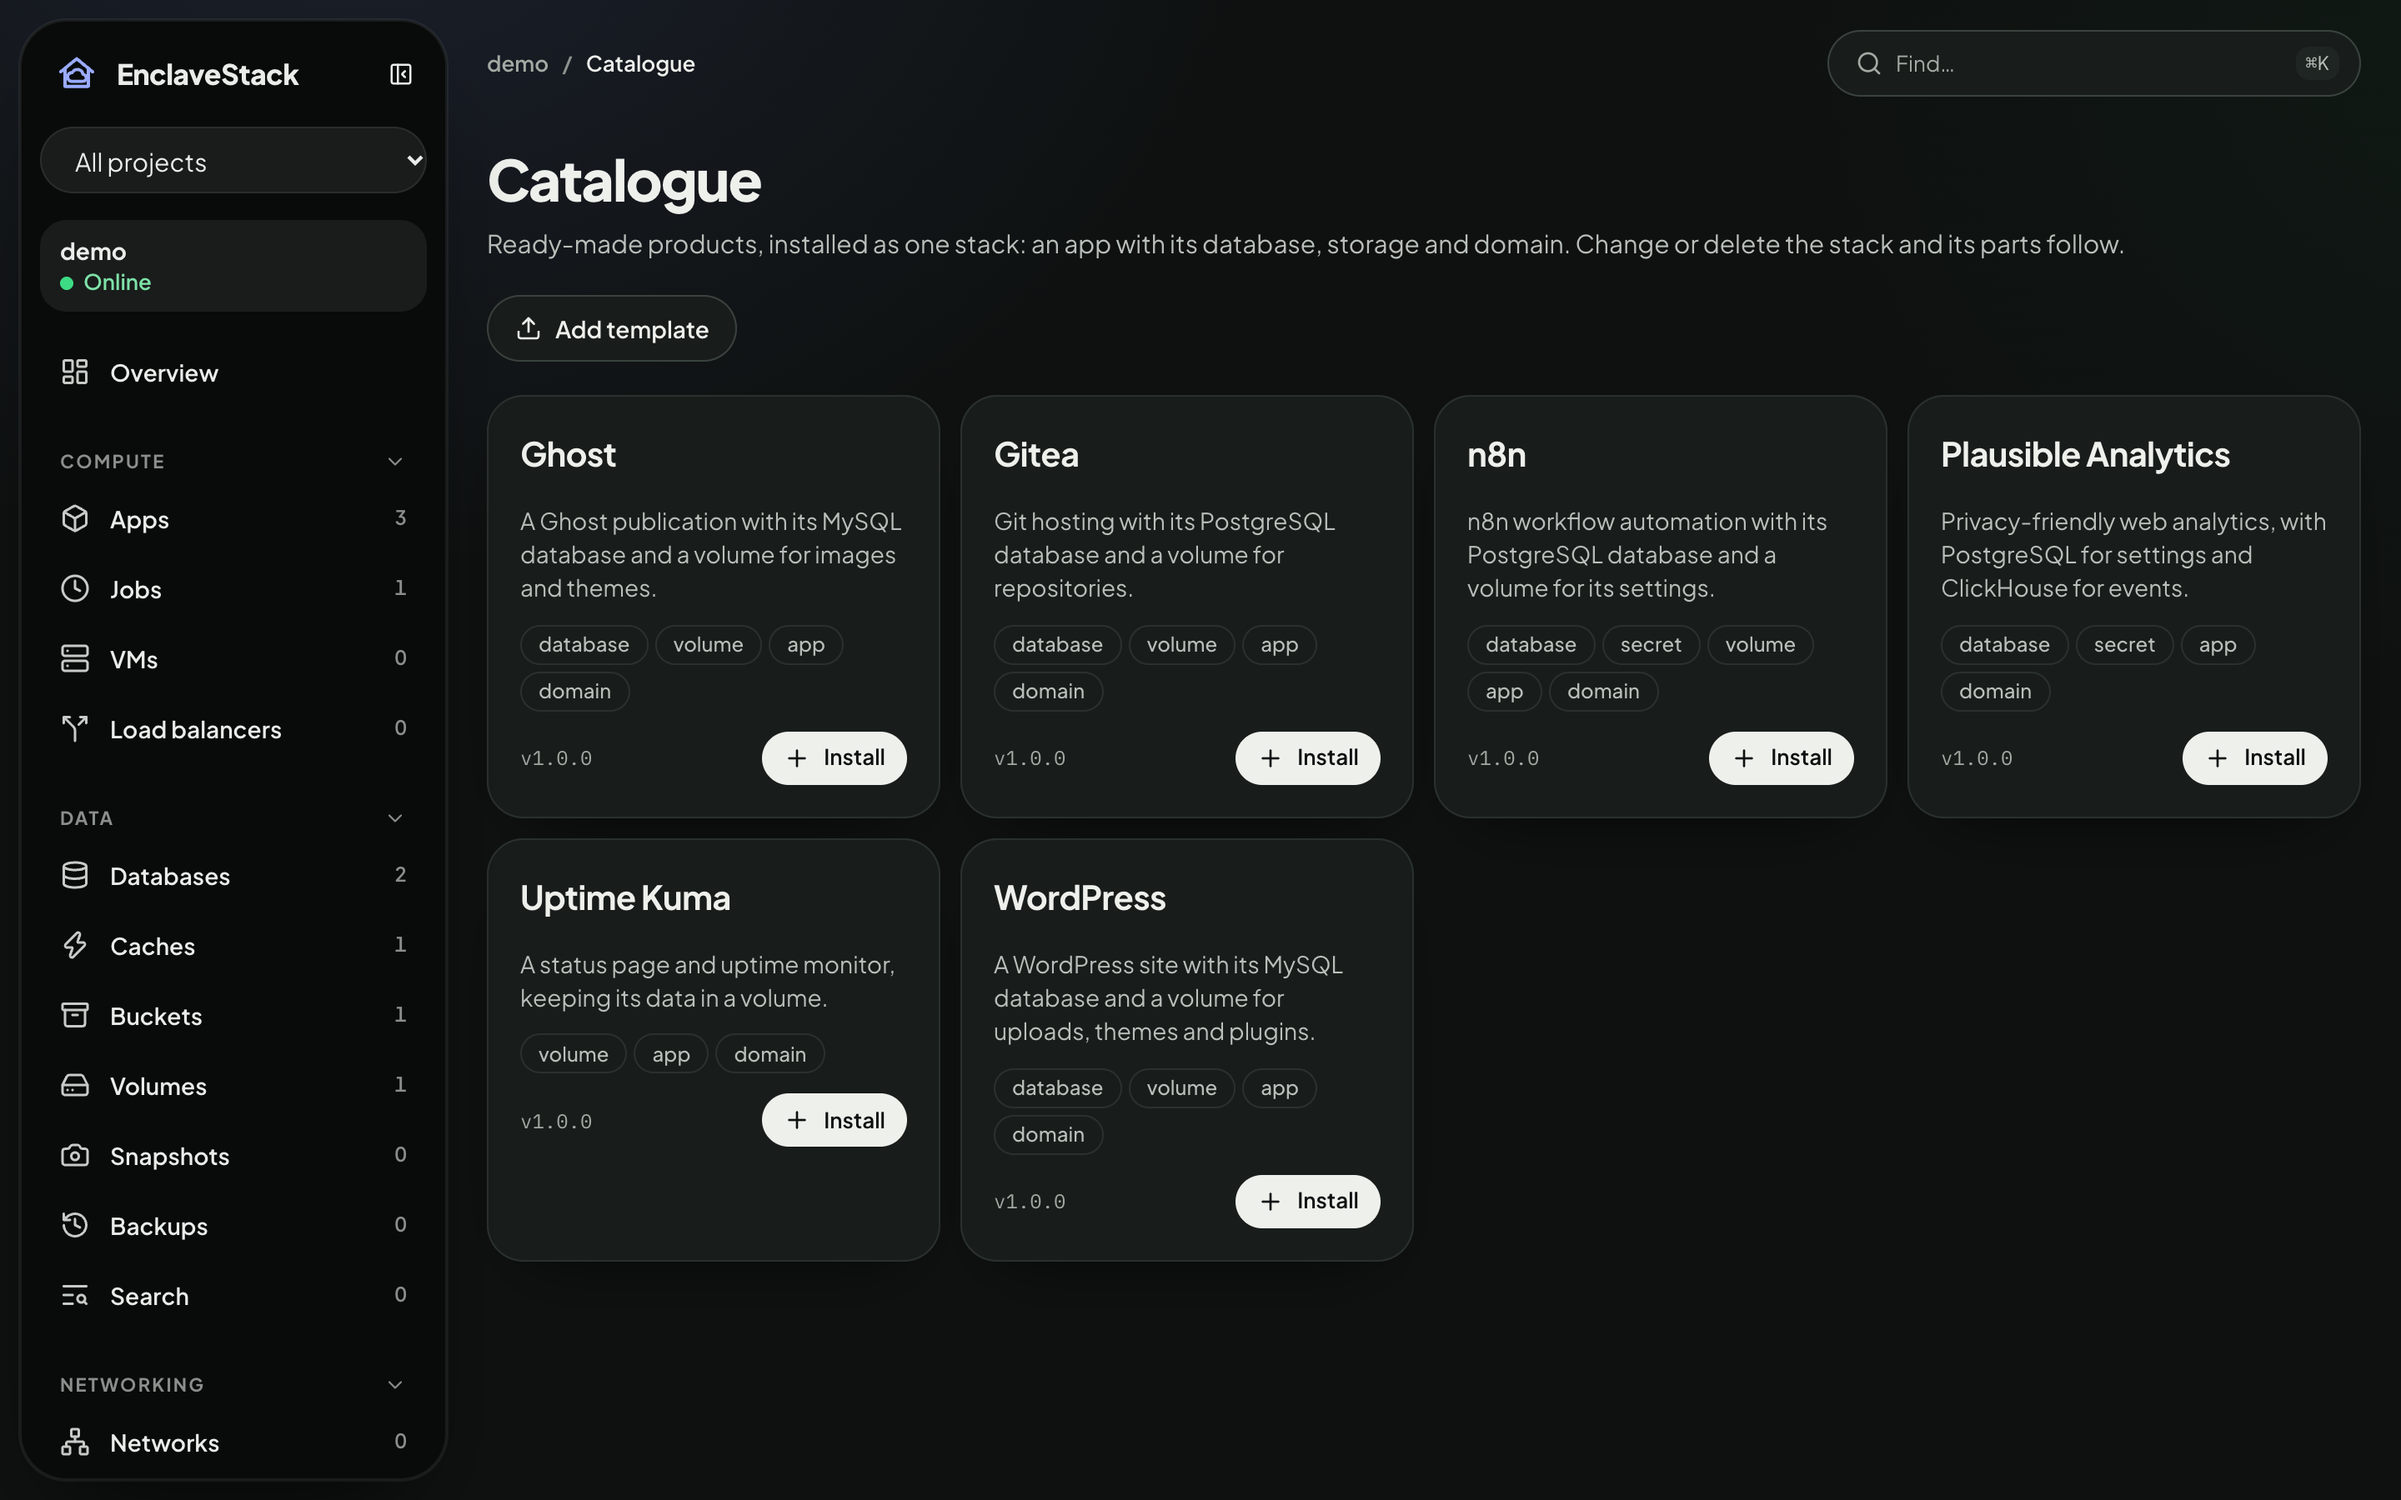
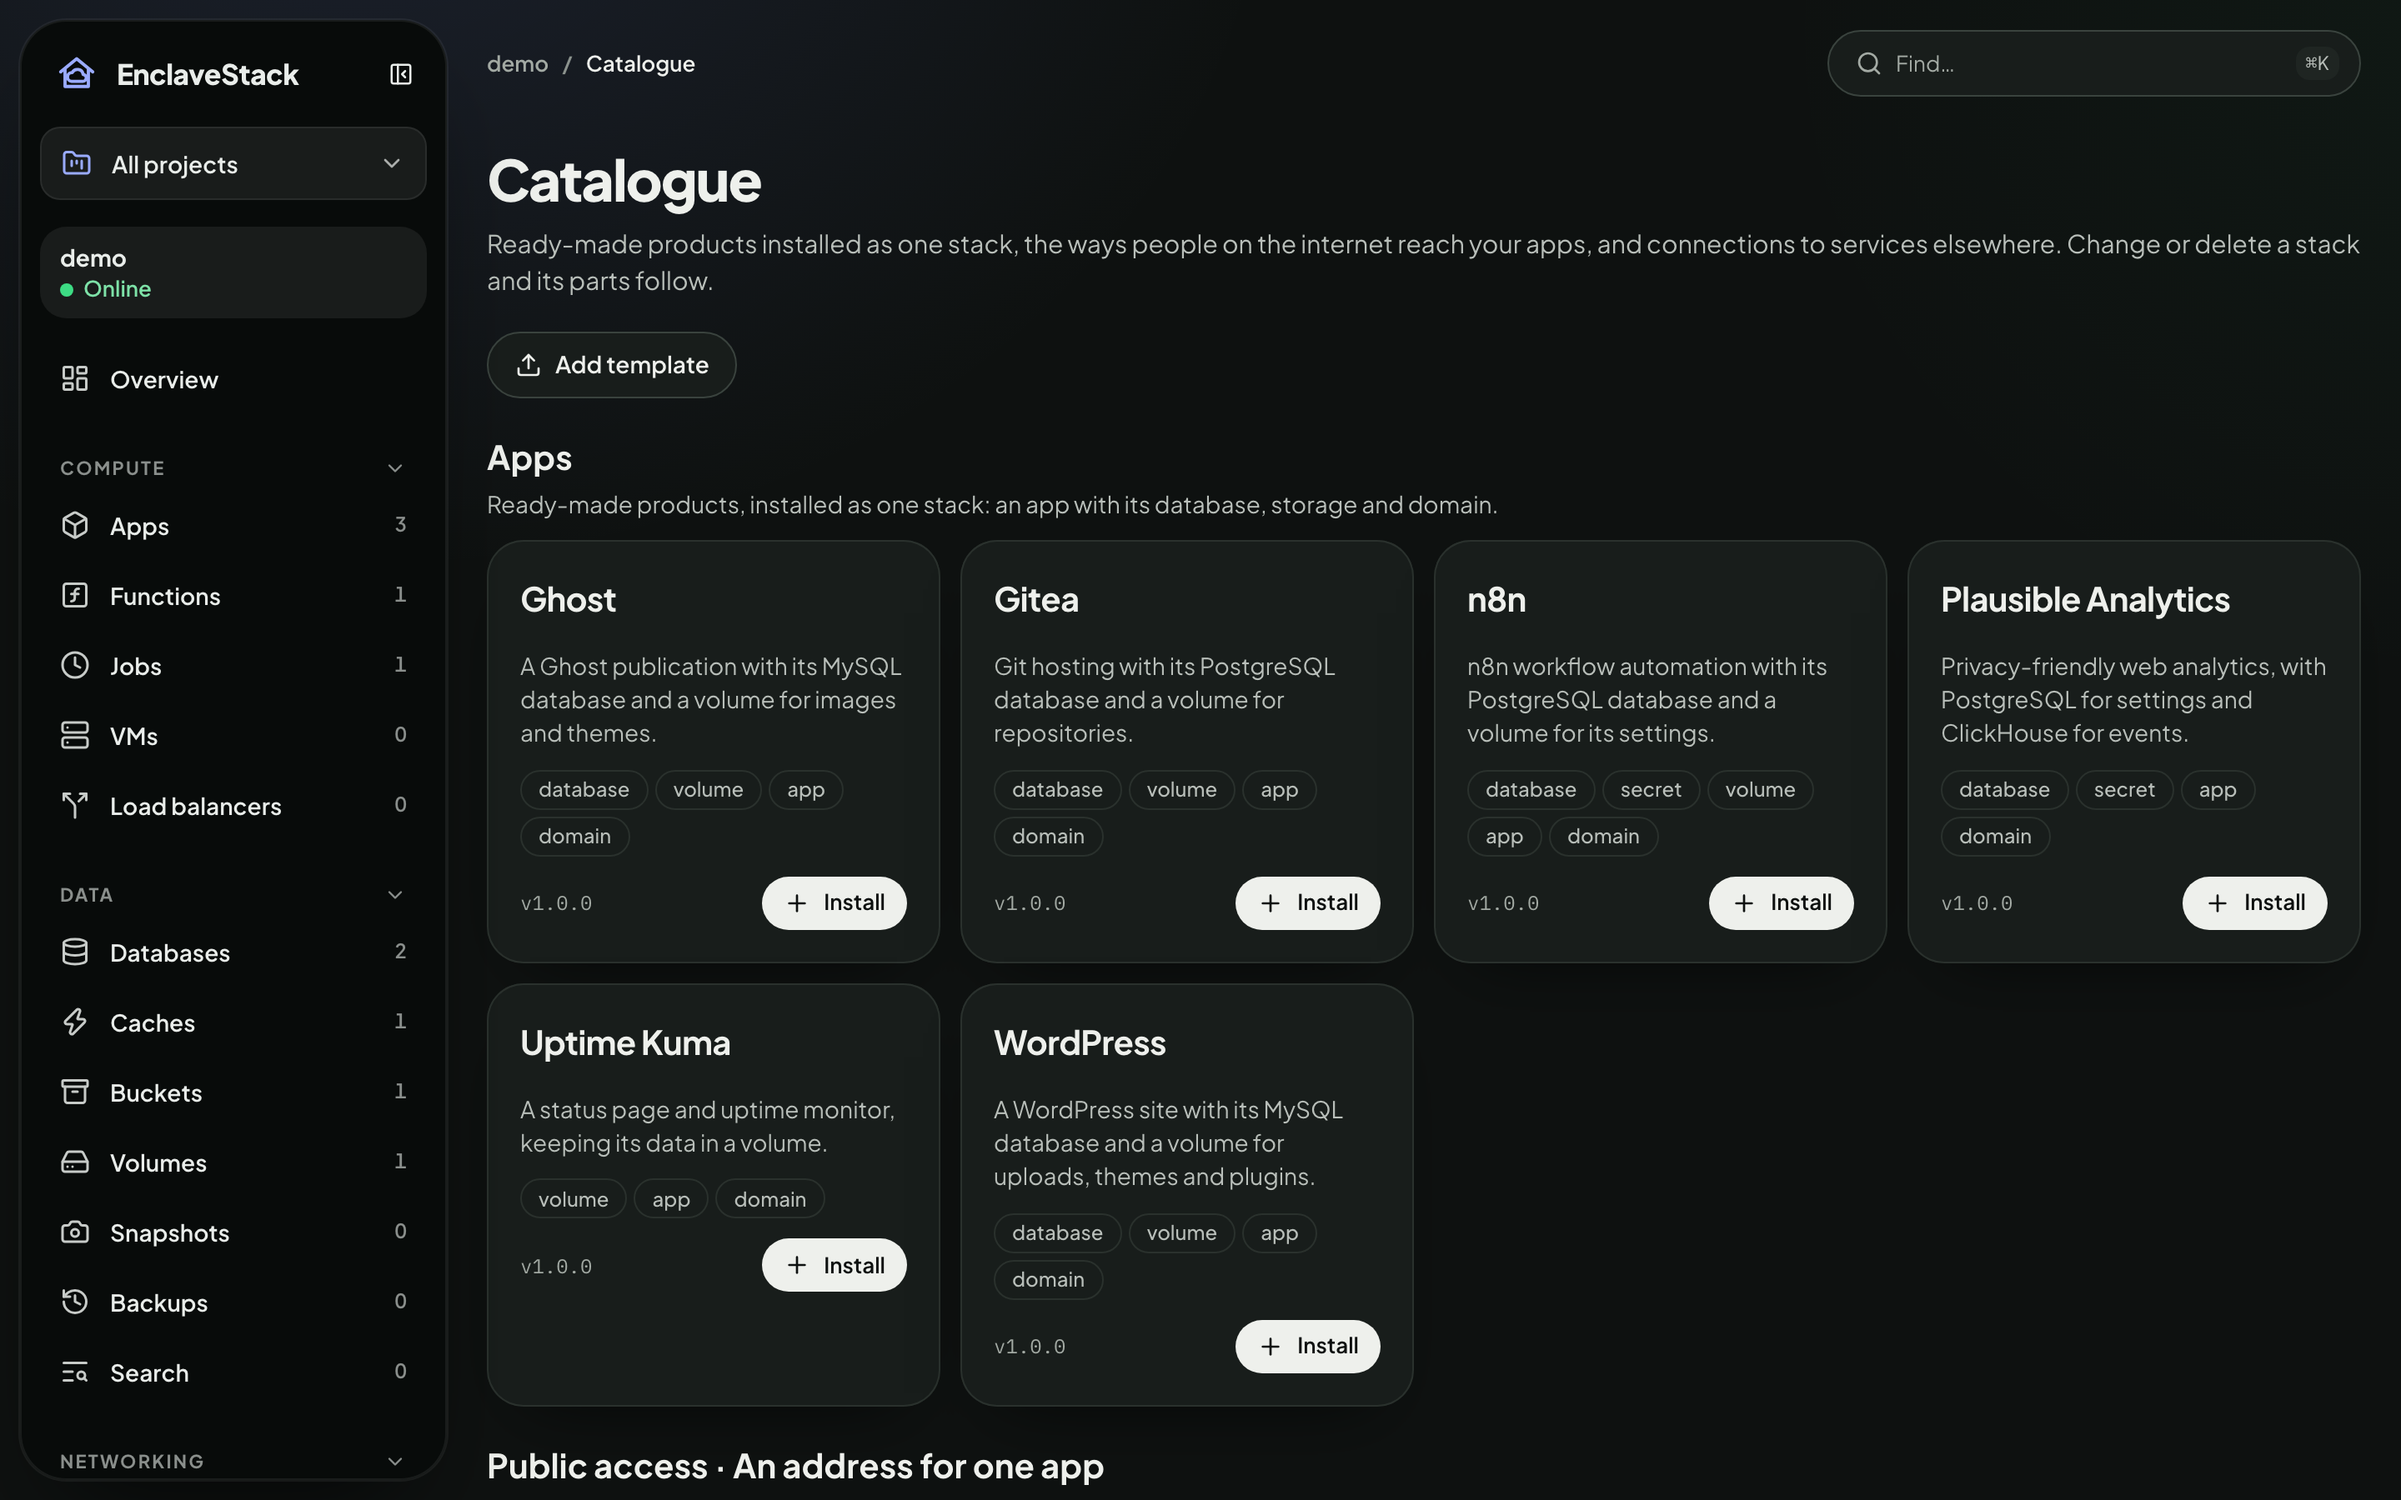
docs(readme): list v0.9 and v0.10, and retake every console screenshot
What you get gains functions, previews and deploy on push, public access, the database options, volume backups, event alerts and all six connections; Many machines covers the standby; Status adds v0.9 (released) and v0.10 (built). The eight screenshots are retaken from make demo in light and dark with the current console, and a new pair shows a function. make demo now adds the function thumbs.

diff --git a/README.md b/README.md
@@ -189,23 +189,33 @@ Then, from the repo: `make tofu DIR=path/to/that/folder CMD=plan` to see what wo
 | Service | What it is | Think of it as |
 |---|---|---|
 | **Apps** | Any container image, or a Git repository with a Dockerfile. Replicas and zero-downtime deploys with health checks | ECS / Cloud Run |
-| **Databases** | PostgreSQL, MySQL, MongoDB or ClickHouse, with a managed password | RDS |
+| **Functions** | A container that starts once for each event (a queue or topic message, a new file in a bucket, a schedule or a call) and stops when it's done | Lambda |
+| **Previews and deploy on push** | A push to your Git branch redeploys the app; each pull request gets its own temporary copy of the app, deleted when the pull request closes | Amplify previews |
+| **Databases** | PostgreSQL, MySQL, MongoDB or ClickHouse, with a managed password; optionally encrypted connections only (TLS), reachable from other computers on your network, and a setup script that runs once | RDS |
 | **Caches** | Redis, persisted to disk | ElastiCache |
 | **Buckets** | S3-compatible object storage; browse, upload and download files from the console, CLI or OpenTofu; each app or job can get keys of its own that reach only the buckets it needs, read-only or read-write | S3 + IAM roles for each service |
 | **Secrets** | Encrypted values your apps get as environment variables, or read from Vault, 1Password, AWS, Doppler or Infisical | Secrets Manager |
 | **Domains** | Hostnames with automatic HTTPS (Let's Encrypt, or a local CA) | ALB + ACM |
-| **Jobs and backups** | Scheduled commands, and scheduled dumps with one-click restore | EventBridge + AWS Backup |
+| **Jobs and backups** | Scheduled commands, and scheduled copies of databases, caches and volumes' files, with one-click restore | EventBridge + AWS Backup |
 | **Networks and firewalls** | Private networks with subnets and private DNS, and allow rules between resources | VPC + security groups |
 | **Load balancers and DNS** | HTTP or TCP balancing across replicas, and DNS zones and records at Cloudflare or Route 53 | ELB + Route 53 |
 | **VMs, volumes and snapshots** | Whole machines on QEMU with SSH, plus disks and folders that outlive what uses them | EC2 + EBS |
 | **Queues, topics, search, email, CDN and transcoding** | NATS JetStream, OpenSearch, SMTP with a message viewer, a caching edge and FFmpeg; transcoders make presets, renditions of your size and bitrate and adaptive HLS ladders, and send a signed webhook or topic message when each file is done | SQS, SNS, OpenSearch, SES, CloudFront, MediaConvert |
-| **Operate** | Projects, people and roles, metrics and dashboards, alerts (email, Slack, Discord, Telegram or webhooks) and log export | IAM + CloudWatch |
-| **Catalogue** | WordPress, Ghost, n8n, Uptime Kuma, Gitea and Plausible, or your own template, installed as one stack | Marketplace |
+| **Operate** | Projects, people and roles, metrics and dashboards, alerts on metrics or on events as they happen (email, Slack, Discord, Telegram or webhooks) and log export | IAM + CloudWatch |
+| **Public access** | Your apps from anywhere through a quick link, Tailscale, ngrok, Cloudflare or a server of your own, always behind a sign-in gate | API Gateway + CloudFront |
+| **Catalogue** | WordPress, Ghost, n8n, Uptime Kuma, Gitea and Plausible, or your own template, installed as one stack; connections keep the keys of Supabase, Neon, Firebase, Auth0, Clerk or Sentry as secrets for your apps | Marketplace |
 
 <div align="center">
 <picture>
   <source media="(prefers-color-scheme: dark)" srcset=".github/assets/catalogue-dark.png" />
   <img src=".github/assets/catalogue-light.png" alt="The catalogue: ready-made stacks to install" width="1000" />
+</picture>
+</div>
+
+<div align="center">
+<picture>
+  <source media="(prefers-color-scheme: dark)" srcset=".github/assets/function-dark.png" />
+  <img src=".github/assets/function-light.png" alt="A function in the console: its trigger, last run and the Invoke and Run now actions" width="1000" />
 </picture>
 </div>
 
@@ -273,11 +283,12 @@ enclave agent join http://<main machine>:7070 --code <code>
 - **Private networks span machines** over an encrypted WireGuard tunnel, so an app on one reaches a database on the other by name.
 - **When a machine goes offline**, its apps restart elsewhere, and data waits for its machine.
 - **Move** anything, data included: `enclave move database/orders --to main`. **Drain** a machine before you unplug it.
+- **A standby** keeps a copy of everything EnclaveStack knows, sent every 15 seconds. If the main machine is lost, run `enclave standby promote` on the standby and it takes over. Add one with `enclave machine add spare --role standby`.
 
 <div align="center">
 <picture>
   <source media="(prefers-color-scheme: dark)" srcset=".github/assets/machines-dark.png" />
-  <img src=".github/assets/machines-light.png" alt="Machines: the main machine online and a second one waiting to join" width="1000" />
+  <img src=".github/assets/machines-light.png" alt="Machines: the main machine online, a second one waiting to join, and a standby" width="1000" />
 </picture>
 </div>
 
@@ -307,10 +318,13 @@ You describe what you want, and the **control plane** stores it. A **reconciler*
 | v0.6 | MySQL, MongoDB, ClickHouse, queues, topics, search, email, CDN and transcoding | Built |
 | v0.7 | Projects, roles, metrics, dashboards, alerts, log export and outside secret stores | Built |
 | v0.8 | Many machines, moving resources and the catalogue | Built |
+| v0.9 | Public access (tunnels, the gate, edge machines), connections (Supabase) and installing without building | Released as 0.9.0 |
+| v0.10 | Functions, deploy on push and previews, a standby that takes over, database TLS and setup scripts, volume backups, event alerts, and connections for Neon, Firebase, Auth0, Clerk and Sentry | Built, not released yet |
 
-Every release above is tested on all three surfaces and on real Docker, but none is published yet. Not yet tried by hand:
-- two physical computers joined over a network;
-- a few real third-party services: Slack, Discord and Telegram, a real email relay, and 1Password, AWS, Doppler and Infisical.
+Every release above is tested on all three surfaces and on real Docker. Not yet tried by hand:
+- two physical computers joined over a network, including a standby taking over;
+- a real GitHub or GitLab webhook making a preview;
+- a few real third-party services: Slack, Discord and Telegram, a real email relay, 1Password, AWS, Doppler and Infisical, and the six connections with real accounts.
 
 The full roadmap is in [`L1-002`](docs/L1-strategy/L1-002-coolify-study-and-service-roadmap-v1.md).
 
@@ -362,6 +376,7 @@ Not yet: it is pre-release. Releases are published and every one is built and te
 - **API**: [`L3-002`](docs/L3-architecture/L3-002-console-api-contract-v1.md) and [`api/openapi.yaml`](api/openapi.yaml)
 - **Security**: [`L3-006`](docs/L3-architecture/L3-006-security-architecture-v1.md)
 - **Local setup and troubleshooting**: [`L4-001`](docs/L4-infrastructure/L4-001-local-dev-setup-v1.md)
+- **Using every feature, start to finish**: [the user guide, `L5-004`](docs/L5-operations/L5-004-user-guide-v1.md) (§17 covers v0.10)
 - **What each feature does, step by step**: [`L5-001`](docs/L5-operations/L5-001-feature-test-playbook-v1.md)
 - **Changes**: [`CHANGELOG.md`](CHANGELOG.md)
 

diff --git a/CHANGELOG.md b/CHANGELOG.md
@@ -4,6 +4,9 @@ All notable changes to `platform` are recorded here. Every change — code, docs
 
 ## [Unreleased]
 
+### Changed
+- **The README lists v0.9 and v0.10 (2026-10-27).** *What you get* gains Functions, Previews and deploy on push, Public access, the database options, volume backups, event alerts and all six connections. *Many machines* covers the standby. *Status* adds v0.9 (released as 0.9.0) and v0.10 (built, not released), drops "none is published yet", and lists what is still untried by hand. *Documentation* links the user guide. Every console screenshot is retaken from `make demo` in light and dark (the redesigned sidebar with Functions, a standby on Machines), and a new one shows a function.
+- **`make demo` adds a function**, `thumbs`, that runs for each file put in `uploads/photos/`.
 ### Added
 - **v0.10: close the roadmap (2026-10-26, `L2-016`).** Everything left on the roadmap, in one release. Each part works from the console, the CLI and OpenTofu.
   - **Functions** (FN-*, ADR-055). A new `function` kind: a container image started once per event, which reads the event from `/enclave/event.json`. Runs start from **Invoke** (`POST /resources/{id}/invoke`, `enclave function invoke`), a schedule, a queue's messages, new files in a bucket folder, or a topic that subscribes the function (`subscriptions: [{function}]`). At most `concurrency` runs go at once; past it, calls get `429 FUNCTION_BUSY` with `Retry-After`. Each run keeps its event. Console: **Compute › Functions** with triggers, Invoke and runs (CON-82, CON-83). CLI: `enclave function …` and `enclave topic create --function` (CLI-59, CLI-64). OpenTofu: `enclave_function` and topic `function` (TF-54, TF-57).
